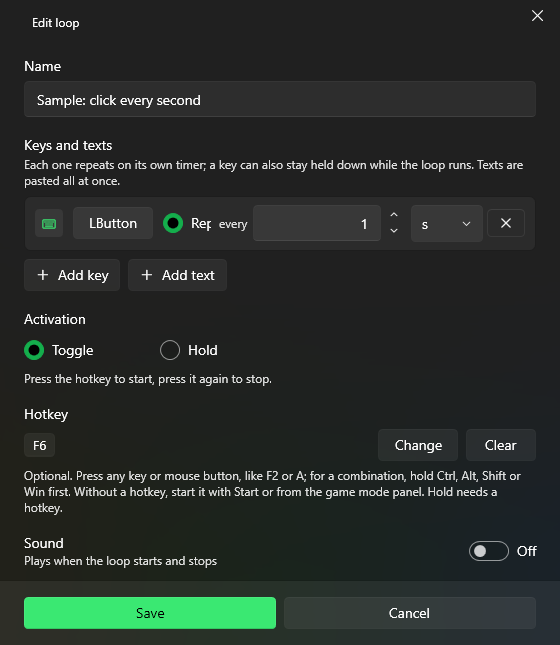
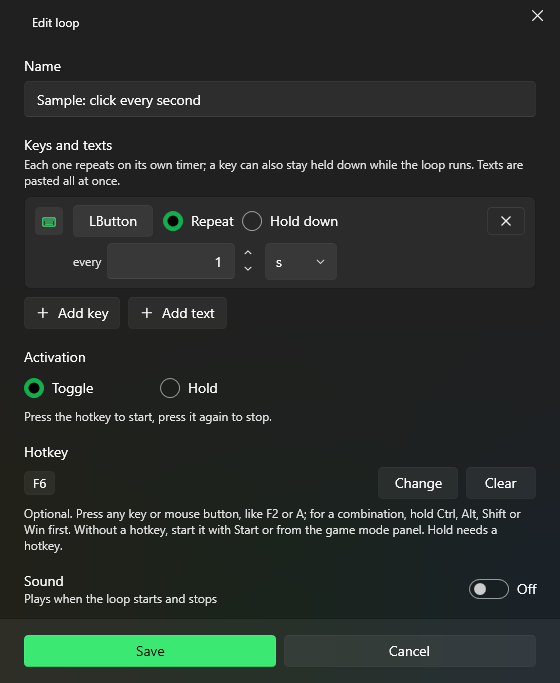
Loop editor: put the interval on a second line
The key row had the key, Repeat, Hold down, the interval box, the unit and
Remove on one line, about 565 px of content in a 560 px window, so Repeat and
Hold down were cut off. The interval (or the hold note) now has its own line.

Claude-Session: https://claude.ai/code/session_0139wSMeYGyPaiveAyPqRnht

diff --git a/PuppyMacro/LoopEditorWindow.xaml b/PuppyMacro/LoopEditorWindow.xaml
@@ -110,9 +110,6 @@
                                             <ColumnDefinition Width="Auto" />
                                             <ColumnDefinition Width="*" />
                                             <ColumnDefinition Width="Auto" />
-                                            <ColumnDefinition Width="Auto" />
-                                            <ColumnDefinition Width="Auto" />
-                                            <ColumnDefinition Width="Auto" />
                                         </Grid.ColumnDefinitions>
 
                                         <Border Grid.Column="0" Width="28" Height="28" Margin="0,0,10,0" CornerRadius="4"
@@ -142,45 +139,48 @@
                                                        Visibility="{Binding IsText, Converter={StaticResource BoolToVisibility}}" />
                                         </Grid>
 
-                                        <TextBlock Grid.Column="2" Grid.ColumnSpan="3" Margin="8,0,0,0" VerticalAlignment="Center" FontSize="12"
-                                                   HorizontalAlignment="Right"
+                                        <ui:Button Grid.Column="2" Margin="4,0,0,0" Appearance="Transparent" Icon="{ui:SymbolIcon Dismiss24}"
+                                                   ToolTip="Remove" Tag="{Binding}" Click="OnRemoveActionClick" />
+                                    </Grid>
+
+                                    <!-- Second line: the interval, or the hold note for a held key -->
+                                    <Grid Margin="38,6,0,0">
+                                        <StackPanel Orientation="Horizontal"
+                                                    Visibility="{Binding ShowInterval, Converter={StaticResource BoolToVisibility}}">
+                                            <TextBlock Margin="0,0,6,0" VerticalAlignment="Center" FontSize="12"
+                                                       Foreground="{DynamicResource TextFillColorSecondaryBrush}" Text="every" />
+                                            <Grid VerticalAlignment="Center">
+                                                <Grid.ColumnDefinitions>
+                                                    <ColumnDefinition Width="Auto" />
+                                                    <ColumnDefinition Width="Auto" />
+                                                </Grid.ColumnDefinitions>
+                                                <ui:NumberBox Width="128" VerticalAlignment="Center"
+                                                              Minimum="0" Maximum="86400000" MaxDecimalPlaces="2"
+                                                              SpinButtonPlacementMode="Hidden" ClearButtonEnabled="False"
+                                                              HorizontalContentAlignment="Right"
+                                                              Value="{Binding IntervalValue, Mode=TwoWay, UpdateSourceTrigger=PropertyChanged}" />
+                                                <StackPanel Grid.Column="1" Margin="2,0,0,0" VerticalAlignment="Center">
+                                                    <RepeatButton Style="{StaticResource SpinButton}" ToolTip="Increase"
+                                                                  Tag="{Binding}" Click="OnStepUpClick">
+                                                        <ui:SymbolIcon Symbol="ChevronUp12" FontSize="10" />
+                                                    </RepeatButton>
+                                                    <RepeatButton Style="{StaticResource SpinButton}" ToolTip="Decrease"
+                                                                  Tag="{Binding}" Click="OnStepDownClick">
+                                                        <ui:SymbolIcon Symbol="ChevronDown12" FontSize="10" />
+                                                    </RepeatButton>
+                                                </StackPanel>
+                                            </Grid>
+                                            <ComboBox Margin="6,0,0,0" MinWidth="72" VerticalAlignment="Center"
+                                                      SelectedIndex="{Binding UnitIndex, Mode=TwoWay}">
+                                                <ComboBoxItem Content="ms" />
+                                                <ComboBoxItem Content="s" />
+                                                <ComboBoxItem Content="min" />
+                                                <ComboBoxItem Content="h" />
+                                            </ComboBox>
+                                        </StackPanel>
+                                        <TextBlock VerticalAlignment="Center" FontSize="12"
                                                    Foreground="{DynamicResource TextFillColorSecondaryBrush}" Text="Held down while the loop runs"
                                                    Visibility="{Binding IsHoldKey, Converter={StaticResource BoolToVisibility}}" />
-                                        <TextBlock Grid.Column="2" Margin="8,0,6,0" VerticalAlignment="Center" FontSize="12"
-                                                   Foreground="{DynamicResource TextFillColorSecondaryBrush}" Text="every"
-                                                   Visibility="{Binding ShowInterval, Converter={StaticResource BoolToVisibility}}" />
-                                        <Grid Grid.Column="3" VerticalAlignment="Center"
-                                              Visibility="{Binding ShowInterval, Converter={StaticResource BoolToVisibility}}">
-                                            <Grid.ColumnDefinitions>
-                                                <ColumnDefinition Width="Auto" />
-                                                <ColumnDefinition Width="Auto" />
-                                            </Grid.ColumnDefinitions>
-                                            <ui:NumberBox Width="128" VerticalAlignment="Center"
-                                                          Minimum="0" Maximum="86400000" MaxDecimalPlaces="2"
-                                                          SpinButtonPlacementMode="Hidden" ClearButtonEnabled="False"
-                                                          HorizontalContentAlignment="Right"
-                                                          Value="{Binding IntervalValue, Mode=TwoWay, UpdateSourceTrigger=PropertyChanged}" />
-                                            <StackPanel Grid.Column="1" Margin="2,0,0,0" VerticalAlignment="Center">
-                                                <RepeatButton Style="{StaticResource SpinButton}" ToolTip="Increase"
-                                                              Tag="{Binding}" Click="OnStepUpClick">
-                                                    <ui:SymbolIcon Symbol="ChevronUp12" FontSize="10" />
-                                                </RepeatButton>
-                                                <RepeatButton Style="{StaticResource SpinButton}" ToolTip="Decrease"
-                                                              Tag="{Binding}" Click="OnStepDownClick">
-                                                    <ui:SymbolIcon Symbol="ChevronDown12" FontSize="10" />
-                                                </RepeatButton>
-                                            </StackPanel>
-                                        </Grid>
-                                        <ComboBox Grid.Column="4" Margin="6,0,0,0" MinWidth="72" VerticalAlignment="Center"
-                                                  SelectedIndex="{Binding UnitIndex, Mode=TwoWay}"
-                                                  Visibility="{Binding ShowInterval, Converter={StaticResource BoolToVisibility}}">
-                                            <ComboBoxItem Content="ms" />
-                                            <ComboBoxItem Content="s" />
-                                            <ComboBoxItem Content="min" />
-                                            <ComboBoxItem Content="h" />
-                                        </ComboBox>
-                                        <ui:Button Grid.Column="5" Margin="4,0,0,0" Appearance="Transparent" Icon="{ui:SymbolIcon Dismiss24}"
-                                                   ToolTip="Remove" Tag="{Binding}" Click="OnRemoveActionClick" />
                                     </Grid>
 
                                     <StackPanel Margin="38,8,0,0" Visibility="{Binding IsText, Converter={StaticResource BoolToVisibility}}">

diff --git a/CHANGELOG.md b/CHANGELOG.md
@@ -1,5 +1,9 @@
 # Changelog
 
+## 1.7.1
+- Loop editor: a key row shows Repeat / Hold down on the first line and the interval on the
+  second, so the options are no longer cut off.
+
 ## 1.7.0
 - **Installer and automatic updates**: PuppyMacro is now installed with
   `PuppyMacro-win-Setup.exe` from the GitHub Releases (per user, no administrator rights; it
